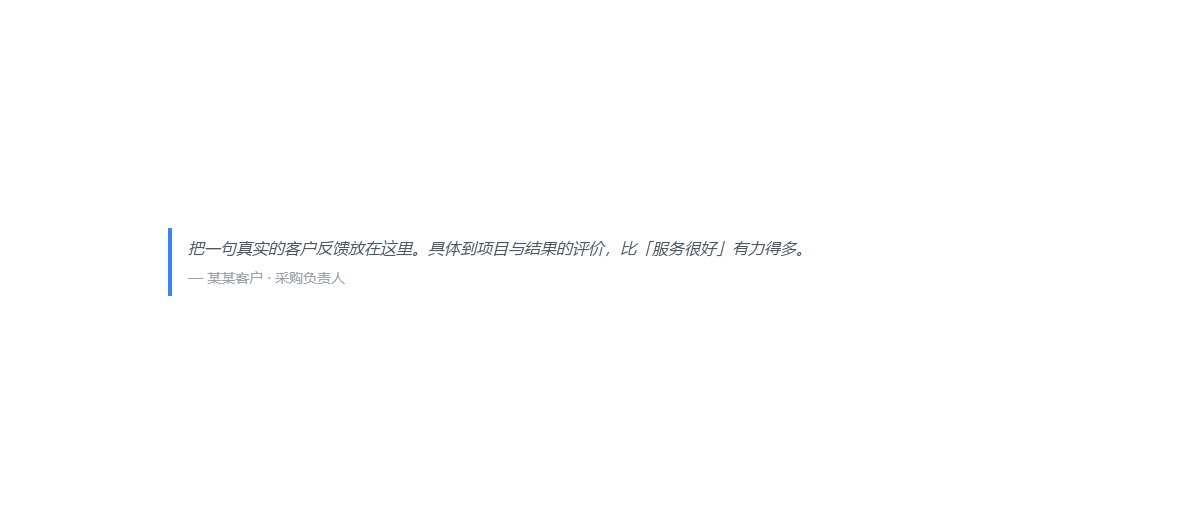
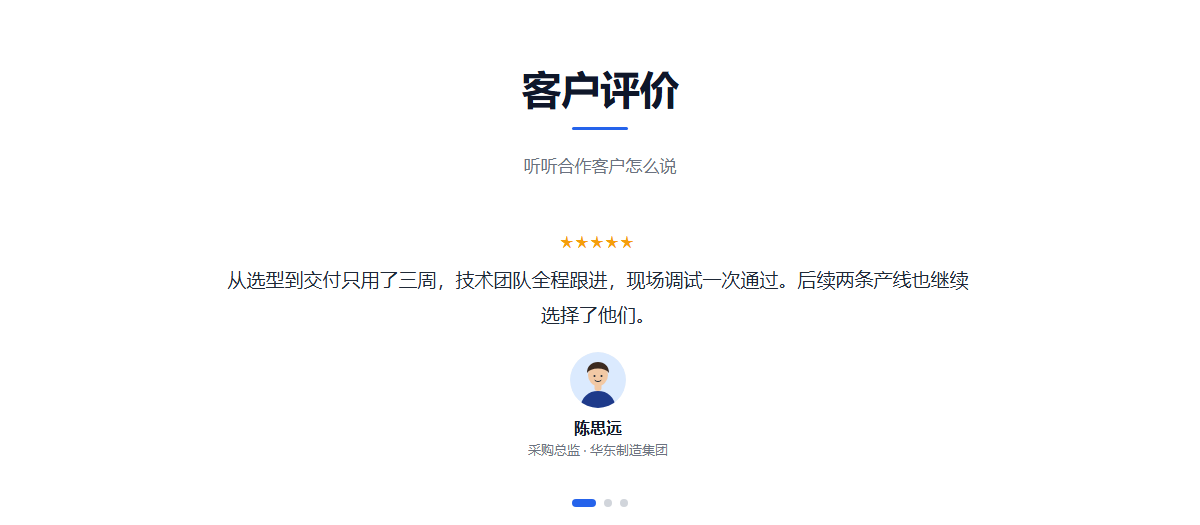
feat(blox): customer testimonial section with a heading and three rotating quotes
System section 06 now has a heading and subtitle and shows three sample
testimonials one at a time in large centered type, rotating with dot
navigation below. It moves to the customers & partners category.

diff --git a/assets/css/blox-carousel.css b/assets/css/blox-carousel.css
@@ -77,3 +77,8 @@
 .yk-testimonials--center .yk-testimonial { align-items: center; text-align: center; }
 .yk-testimonials--center .yk-testimonial-author { flex-direction: column; gap: 8px; }
 .yk-testimonials--center .yk-testimonial-meta { align-items: center; }
+/* 每屏 1 条：大字引语 */
+.yk-testimonials--single .yk-testimonial-text { font-size: 19px; line-height: 1.85; color: #1f2937; }
+.yk-testimonials--single.yk-testimonials--center .yk-testimonial { max-width: 760px; margin: 0 auto; }
+.yk-testimonials--single .yk-testimonial-avatar { width: 56px; height: 56px; }
+@media (max-width: 767px) { .yk-testimonials--single .yk-testimonial-text { font-size: 16px; } }

diff --git a/lang/en.php b/lang/en.php
@@ -5562,8 +5562,8 @@ voltage|Voltage|220V',
     'blox_builtin_section_feature_desc' => 'Icons, headings, and concise copy for three core benefits.',
     'blox_builtin_section_cards_name' => 'Capability Cards',
     'blox_builtin_section_cards_desc' => 'Three cards for services, capabilities, or solutions.',
-    'blox_builtin_section_quote_name' => 'Customer Quote',
-    'blox_builtin_section_quote_desc' => 'A prominent testimonial, partnership note, or brand statement.',
+    'blox_builtin_section_quote_name' => 'Customer quotes',
+    'blox_builtin_section_quote_desc' => 'A heading with large centered testimonials; three sample quotes rotate one at a time with dot navigation below.',
     'blox_builtin_section_faq_name' => 'Frequently Asked Questions',
     'blox_builtin_section_faq_desc' => 'A heading, introduction, and collapsible question list.',
     'blox_builtin_section_cta_name' => 'Call to Action Banner',

diff --git a/lang/zh-CN.php b/lang/zh-CN.php
@@ -5630,8 +5630,8 @@ voltage|电压|220V',
     'blox_builtin_section_feature_desc' => '用图标、标题和短说明呈现三项价值优势。',
     'blox_builtin_section_cards_name' => '三栏能力卡片',
     'blox_builtin_section_cards_desc' => '适合展示服务能力、业务领域或解决方案。',
-    'blox_builtin_section_quote_name' => '客户引语',
-    'blox_builtin_section_quote_desc' => '突出客户评价、合作反馈或品牌主张。',
+    'blox_builtin_section_quote_name' => '客户评价',
+    'blox_builtin_section_quote_desc' => '标题加居中大字客户评价，3 条示例自动逐条切换，下方圆点导航。',
     'blox_builtin_section_faq_name' => '常见问题',
     'blox_builtin_section_faq_desc' => '标题、说明与折叠问答列表，适合服务说明页面。',
     'blox_builtin_section_cta_name' => '行动召唤横幅',

diff --git a/lang/ja.php b/lang/ja.php
@@ -5707,7 +5707,7 @@ voltage|電圧|220V',
     'blox_builtin_section_cards_name' => 'サービスカード',
     'blox_builtin_section_cards_desc' => 'サービス、能力、ソリューションを3枚のカードで紹介します。',
     'blox_builtin_section_quote_name' => 'お客様の声',
-    'blox_builtin_section_quote_desc' => '評価、協業実績、ブランドメッセージを強調します。',
+    'blox_builtin_section_quote_desc' => '見出しと中央揃えの大きなコメント。3 件のサンプルが 1 件ずつ切り替わり、下にドットナビを表示します。',
     'blox_builtin_section_faq_name' => 'よくある質問',
     'blox_builtin_section_faq_desc' => '見出し、説明、折りたたみ式の質問一覧です。',
     'blox_builtin_section_cta_name' => '行動喚起バナー',

diff --git a/includes/builder/elements/TestimonialCarouselElement.php b/includes/builder/elements/TestimonialCarouselElement.php
@@ -114,7 +114,7 @@ final class TestimonialCarouselElement extends AbstractElement
         $center = ($data['align'] ?? 'left') === 'center';
         $label = __('blox_el_testimonial_carousel');
 
-        $html = '<div class="yk-carousel yk-testimonials yk-testimonials--' . $style . ($center ? ' yk-testimonials--center' : '') . '"'
+        $html = '<div class="yk-carousel yk-testimonials yk-testimonials--' . $style . ($center ? ' yk-testimonials--center' : '') . ($perView === 1 ? ' yk-testimonials--single' : '') . '"'
             . ' data-yk-carousel style="--yk-carousel-per-view:' . $perView . '"'
             . ($autoplay ? ' data-yk-carousel-autoplay="' . ($interval * 1000) . '"' : '')
             . ' data-yk-carousel-dot-label="' . self::h(__('blox_carousel_dot_label')) . '">';

diff --git a/includes/builder/BloxBuiltinTemplateProvider.php b/includes/builder/BloxBuiltinTemplateProvider.php
@@ -103,12 +103,13 @@ final class BloxBuiltinTemplateProvider
             'contexts' => ['page', 'home'],
             'name_key' => 'blox_builtin_section_quote_name',
             'description_key' => 'blox_builtin_section_quote_desc',
-            'category' => 'content',
+            'category' => 'social',
             'thumbnail' => '/assets/images/blox-templates/section-testimonial-quote.png',
             'metadata' => [
                 'purpose' => 'testimonials',
+                'variant' => 'centered',
                 'page_types' => ['home', 'about'],
-                'content_slots' => ['quote', 'author'],
+                'content_slots' => ['heading', 'quote', 'author', 'image'],
                 'priority' => 68,
             ],
         ],

diff --git a/tests/Unit/SectionTemplateLibraryTest.php b/tests/Unit/SectionTemplateLibraryTest.php
@@ -32,7 +32,7 @@ final class SectionTemplateLibraryTest extends TestCase
             '03 服务优势' => ['feature-grid', 'business', '资质齐全'],
             '04 行动引导' => ['cta-banner', 'marketing', '立即咨询'],
             '05 图文咨询引导' => ['cta-split', 'marketing', '准备好开始合作了吗'],
-            '06 客户引语' => ['testimonial-quote', 'content', '客户反馈'],
+            '06 客户评价' => ['testimonial-quote', 'social', 'yk-testimonials--single'],
             '07 客户评价轮播' => ['testimonials-carousel', 'social', 'data-yk-carousel'],
             '08 合作伙伴' => ['partners-logos', 'social', 'yk-logo-wall'],
         ];

diff --git a/tests/Unit/SectionElementPresetEnhancementTest.php b/tests/Unit/SectionElementPresetEnhancementTest.php
@@ -22,7 +22,8 @@ final class SectionElementPresetEnhancementTest extends TestCase
     public function testShippedPresetsImportStandardElementsAndShippedAssets(): void
     {
         $markers = [
-            'testimonial-quote' => 'yk-quote-center',
+            // 06 客户评价：标题 + 3 条逐条切换的评价轮播
+            'testimonial-quote' => 'yk-testimonials--single',
         ];
         foreach ($markers as $slug => $marker) {
             $raw = (string) file_get_contents(ROOT_PATH . '/templates/blox/sections/' . $slug . '.json');
